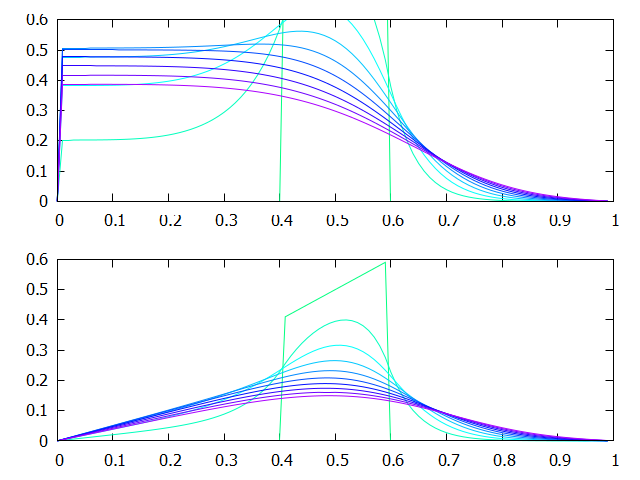
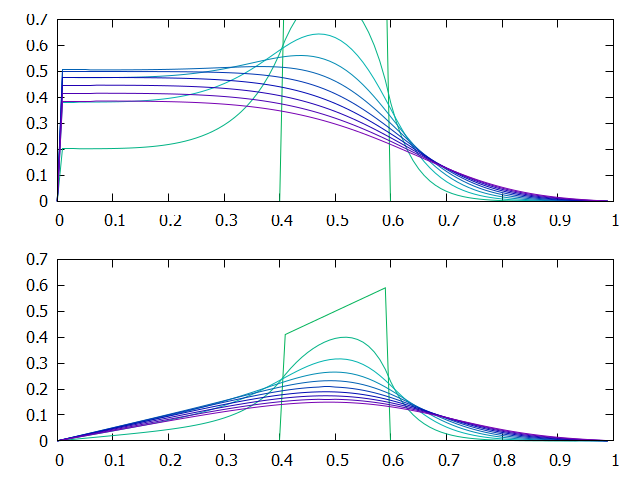
05/11 降着円盤

diff --git a/qiita/00/08_accretion-disk/08.c b/qiita/00/08_accretion-disk/08.c
@@ -85,8 +85,8 @@ int main(void){
     
     for(int i=0; i<I+1; i++){
         bmat[i]=f(xmin+i*dx);
-        u[i][0]=f(xmin+i*dx); // 面密度
-        // u[i][0]=i*dx*f(xmin+i*dx); // 角運動量
+        // u[i][0]=f(xmin+i*dx); // 面密度
+        u[i][0]=i*dx*f(xmin+i*dx); // 角運動量
     }
 
     for(int t=1; t<N; t++){
@@ -104,6 +104,8 @@ int main(void){
         }
         A[I][I]=pow(I, 3.)*b;
         
+        // bの定義
+        bmat[0]=b*bmat[0];
         for(int i=1; i<I+1; i++){
             bmat[i]=pow(i, 3.)*b*bmat[i];
         }
@@ -111,8 +113,8 @@ int main(void){
         // 解く
         simeq(&A[0][0], &bmat[0], I+1);
         for(int i=0; i<I+1; i++){
-            u[i][t]=bmat[i]; // 面密度
-            // u[i][t]=i*dx*bmat[i]; // 角運動量
+            // u[i][t]=bmat[i]; // 面密度
+            u[i][t]=i*dx*bmat[i]; // 角運動量
         }
     }
 

diff --git a/qiita/00/08_accretion-disk/08.md b/qiita/00/08_accretion-disk/08.md
@@ -43,12 +43,12 @@ b & 0 & 0 & 0 & \cdots & 0 \\
 \end{matrix} 
 \right)=\left(
 \begin{matrix} 
-\sigma_0^{(n)} \\ 
-1\sigma_1^{(n)} \\
-8\sigma_2^{(n)} \\
-27\sigma_3^{(n)} \\
+b\sigma_0^{(n)} \\ 
+1b\sigma_1^{(n)} \\
+8b\sigma_2^{(n)} \\
+27b\sigma_3^{(n)} \\
 \vdots \\
-I^3\sigma_I^{(n)}
+I^3b\sigma_I^{(n)}
 \end{matrix} 
 \right)$$
 を解けばよくて, これはGauss消去とかでやればよい。
